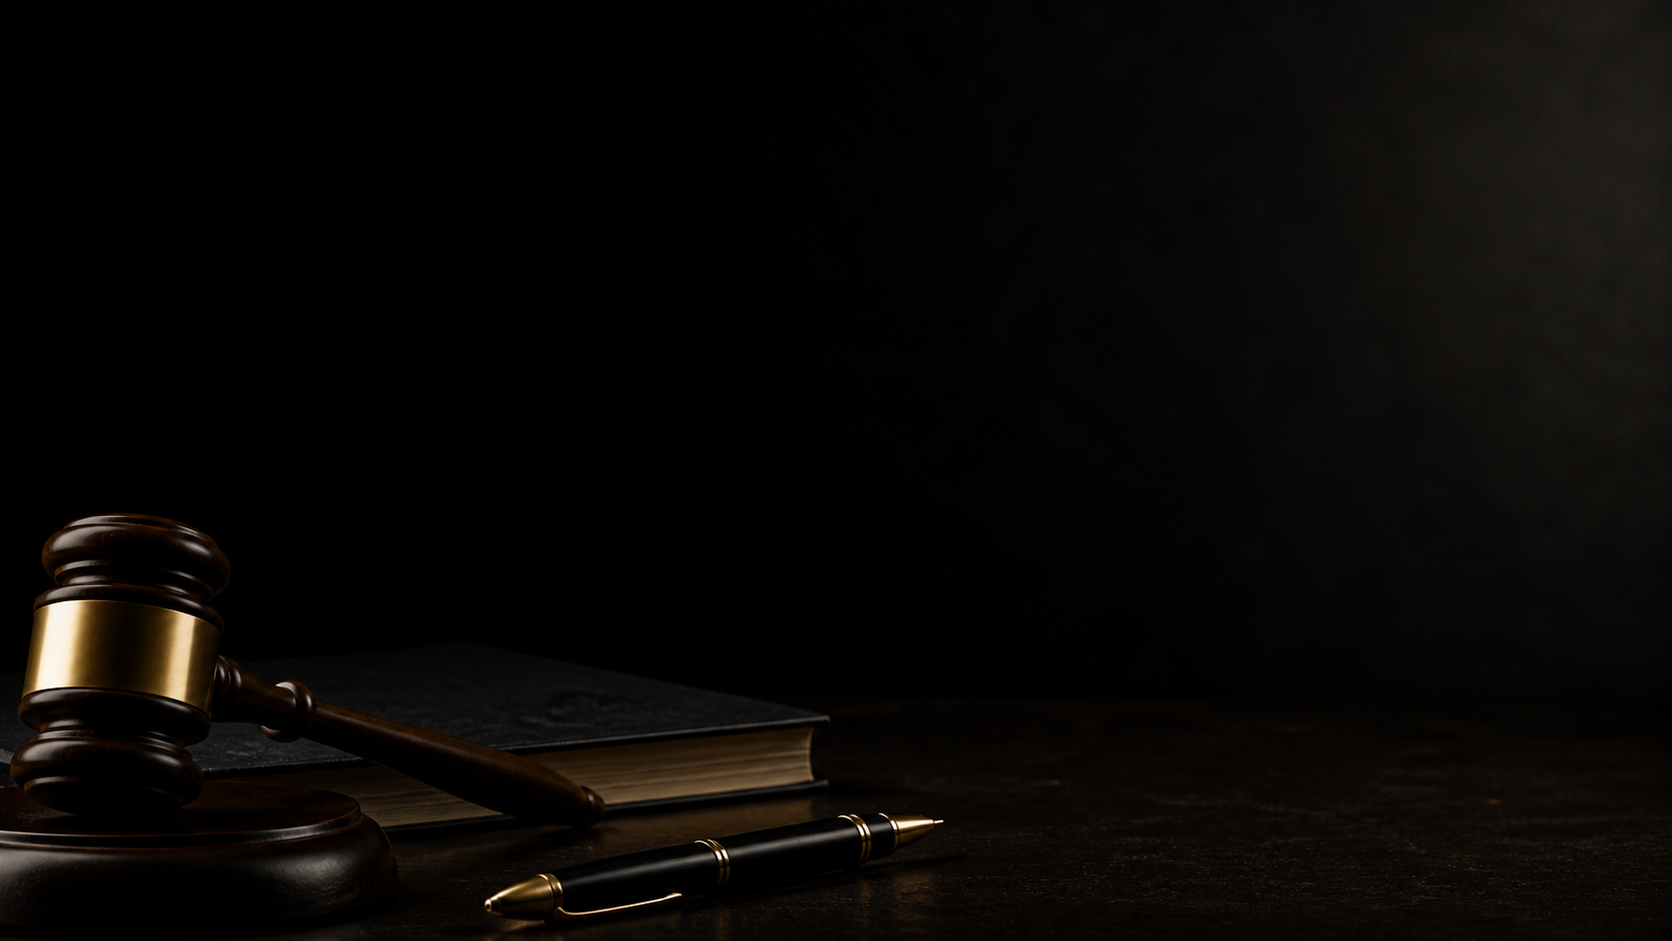
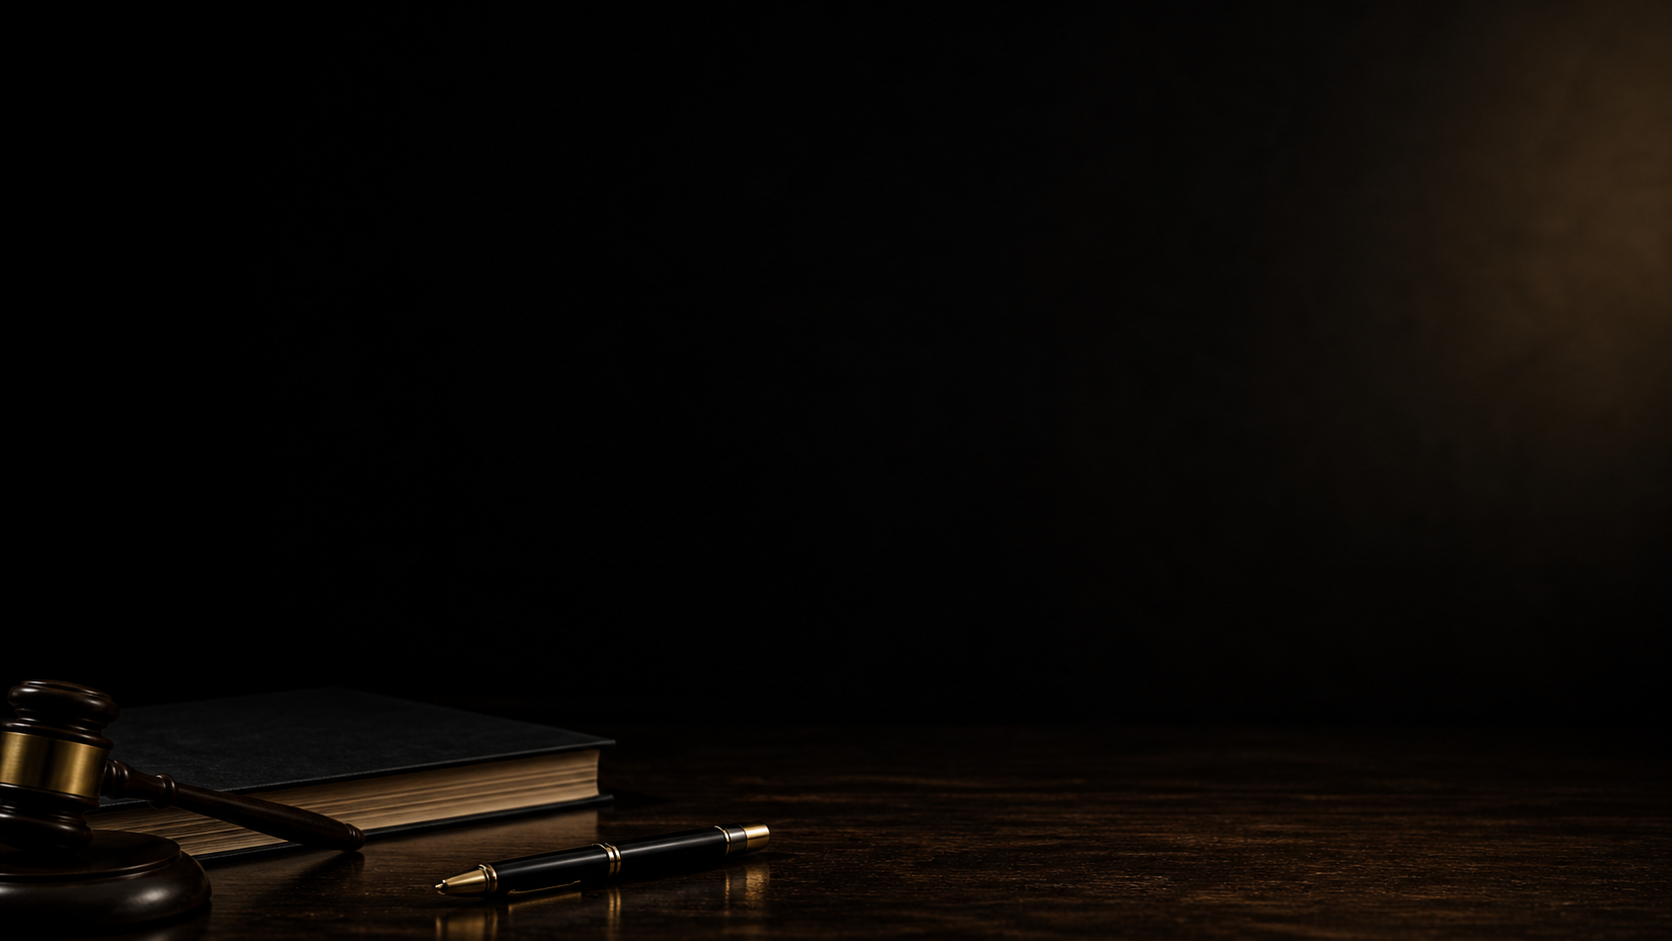
Polish landing hero assets

diff --git a/src/routes/index.tsx b/src/routes/index.tsx
@@ -22,13 +22,13 @@ function Home() {
         className="absolute inset-0 h-full w-full object-cover object-center"
       />
       <div className="absolute inset-0 bg-[linear-gradient(90deg,rgba(0,0,0,0.22)_0%,rgba(0,0,0,0.12)_44%,rgba(0,0,0,0.5)_100%)]" />
-      <div className="absolute right-[8.5vw] bottom-[1.5vh] hidden h-[14vh] w-[28vw] rounded-full bg-black/80 blur-2xl md:block" />
-      <div className="absolute right-[13vw] top-[16vh] hidden h-[58vh] w-[26vw] rounded-full bg-white/7 blur-3xl md:block" />
+      <div className="absolute right-[8.5vw] bottom-[4vh] hidden h-[12vh] w-[26vw] rounded-full bg-black/80 blur-2xl md:block" />
+      <div className="absolute right-[13vw] top-[17vh] hidden h-[55vh] w-[25vw] rounded-full bg-white/7 blur-3xl md:block" />
       <img
         src="/gavel-phone-angled.png"
         alt=""
         aria-hidden="true"
-        className="absolute right-[8.5vw] bottom-[-5vh] hidden h-[91vh] max-h-[980px] min-h-[720px] w-auto drop-shadow-[0_38px_84px_rgba(0,0,0,0.8)] md:block xl:right-[11vw] xl:h-[92vh]"
+        className="absolute right-[8.5vw] bottom-[-2vh] hidden h-[86vh] max-h-[930px] min-h-[680px] w-auto drop-shadow-[0_38px_84px_rgba(0,0,0,0.8)] md:block xl:right-[11vw] xl:h-[88vh]"
       />
       <img
         src="/gavel-phone-angled.png"